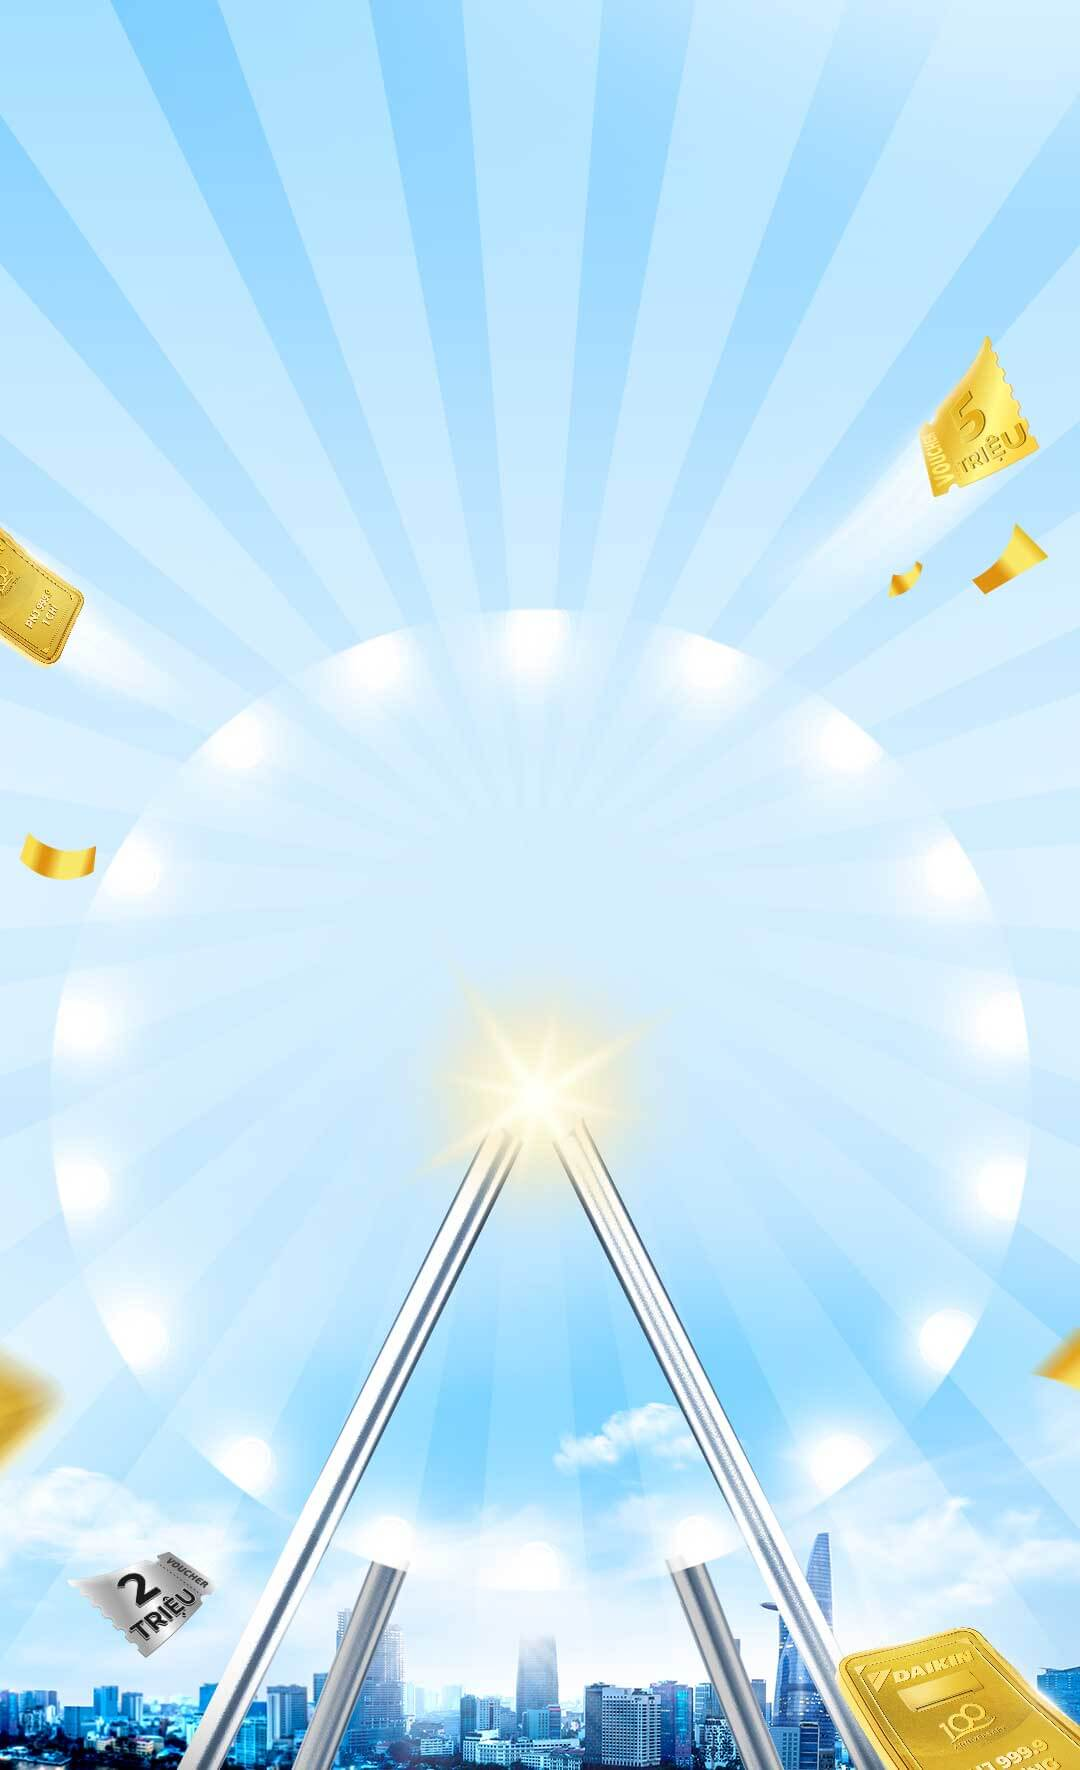
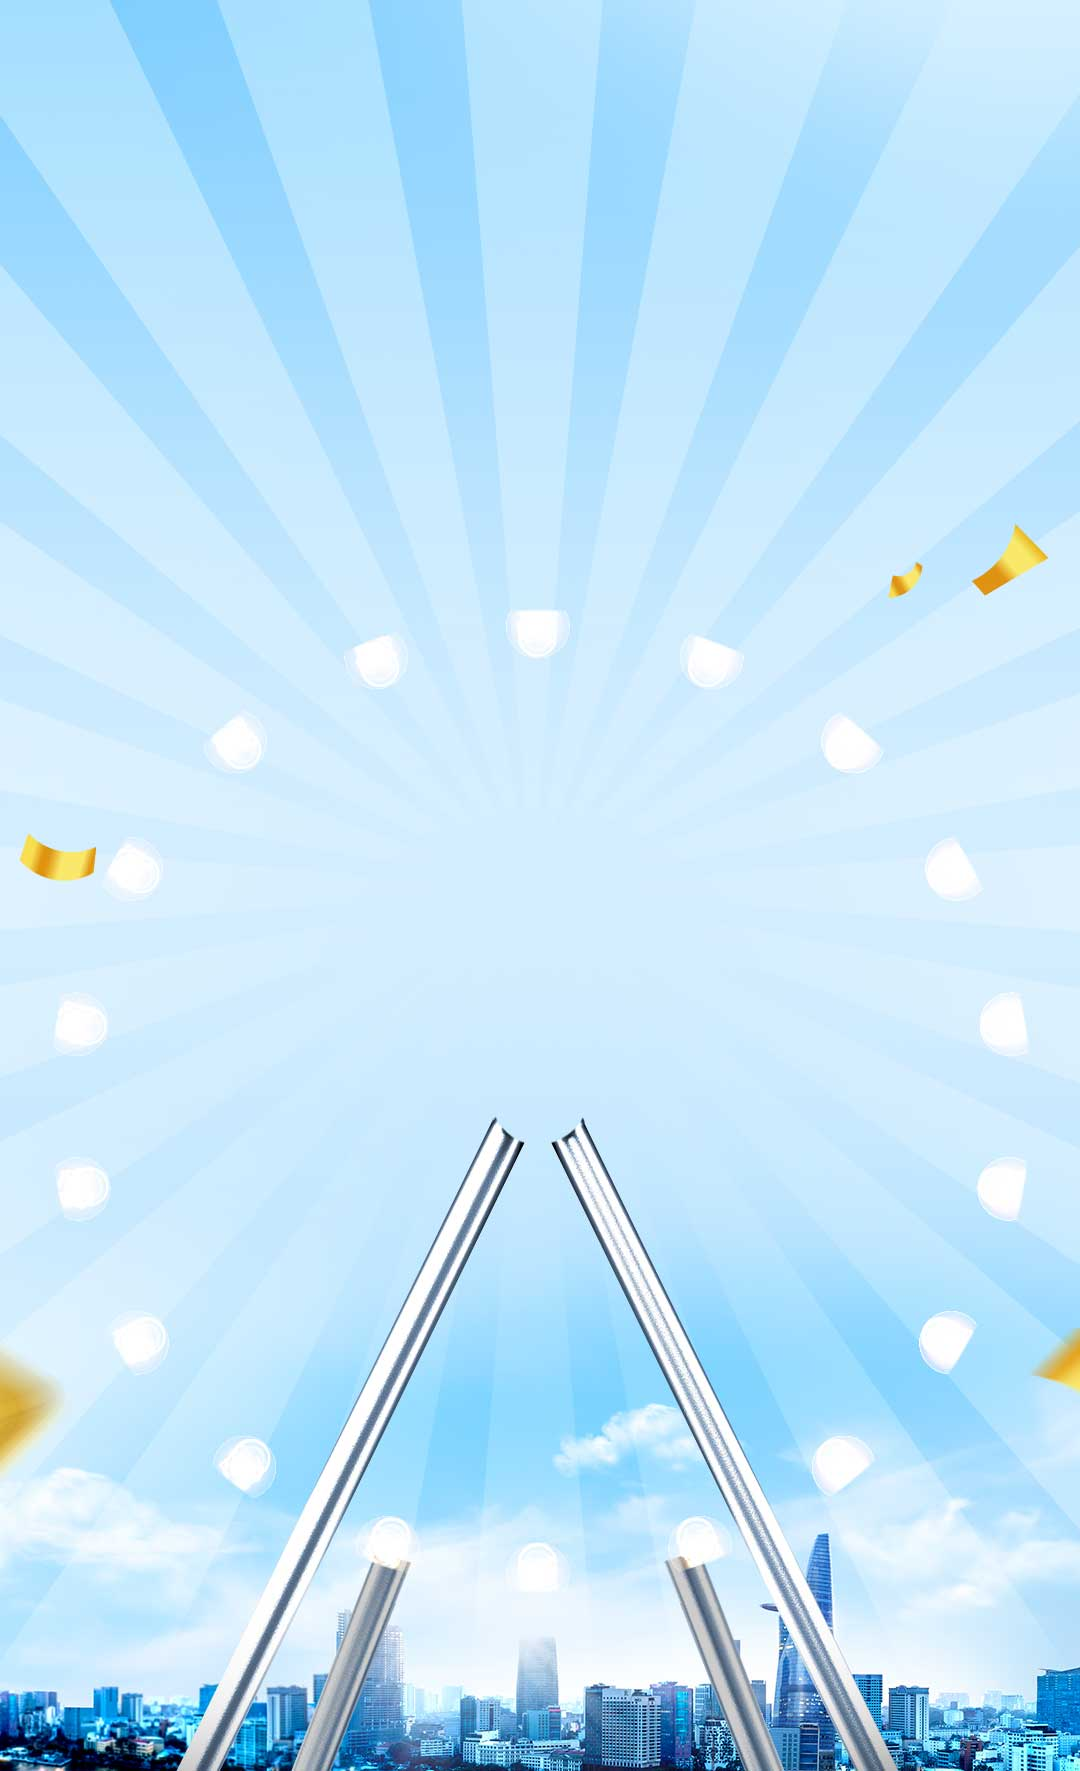
update feelback

diff --git a/vong-quay-02.html b/vong-quay-02.html
@@ -56,6 +56,10 @@
         <img src="./images/img-wheel-2.png" alt="" class="img-wheel-2">
         <img src="./images/ico-arrow.png" alt="" class="img-arrow">
         <img src="./images/ico-quay.png" alt="" class="img-quay">
+        <img class="vang-1" src="./images/vong-quay/vang-1.png">
+        <img class="vang-2" src="./images/vong-quay/vang-2.png">
+        <img class="vang-4" src="./images/vong-quay/vang-3.png">
+        <img class="voucher-lca" src="./images/vong-quay/voucher.png">
         <div class="md-wheel-2 md-wheel-3 md-wheel" id="md-wheel-6">
             <div class="img-popup-8 img-popup">
                 <p class="top-text">Thật tuyệt vời</p>

diff --git a/vong-quay.html b/vong-quay.html
@@ -58,8 +58,8 @@
         <img src="./images/ico-quay.png" alt="" class="img-quay">
         <img class="vang-1" src="./images/vong-quay/vang-1.png">
         <img class="vang-2" src="./images/vong-quay/vang-2.png">
-        <img class="vang-2-2 md-desktop" src="./images/vong-quay/vang-2-2.png">
         <img class="vang-4" src="./images/vong-quay/vang-3.png">
+        <img class="voucher-lca" src="./images/vong-quay/voucher.png">
         <div class="md-wheel-4 md-wheel" id="md-wheel-1">
             <div class="img-popup-1 img-popup">
                 <img src="./images/bg-popup.png" alt="">

diff --git a/css/style.css b/css/style.css
@@ -2765,7 +2765,7 @@ p.error-2{
    }
    .vang-1{
       animation: vang-1 linear infinite 10s;
-      ight: 19%;
+      right: 19%;
       top: 13vw;
       z-index: 9;
       width: 11.5%;
